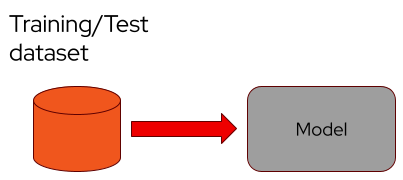
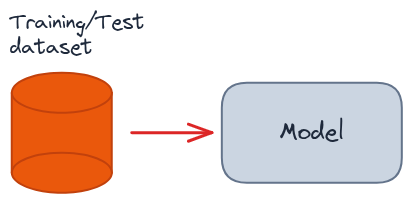
Updated diagrams of the Kafka AI/ML blog post using Excalidraw

diff --git a/content/posts/2025-12-10-ai-ml-streaming-patterns-apache-kafka.md b/content/posts/2025-12-10-ai-ml-streaming-patterns-apache-kafka.md
@@ -100,7 +100,7 @@ Often, the data ingested through the training and test streams are not enough fo
 
 The enrichment process can involve pulling data from external sources in real time using APIs, database queries or solutions like Kafka Connect to write the additional context information into a topic. Frameworks like Kafka Streams and Apache Flink can integrate this additional information into the data stream as it flows through. This enriched data, now with extra features and improved quality, is then used to train the model. The goal is to enhance the model's learning by providing more comprehensive training and test sets. Finally, validation can assess how this enrichment impacts the model's performance.
 
-Data streaming can be also used within an **online learning system** in which a machine-learning model is continuously updated using two Kafka streams. The first stream carries unlabeled data, as a **training set stream**, that flows directly into the model, producing real-time predictions. When the true outcomes for those predictions become available, they arrive through a second Kafka topic, a **feedback stream**, as labeled data. An online-learning algorithm, such as a Passive-Aggressive classifier, then compares the model's earlier predictions with these correct labels and adjusts the model's parameters on the fly. This creates a continuous feedback loop where the model learns incrementally, adapts to changes in the data, and improves its performance with every new piece of labeled information.
+Data streaming can be also used within an **online learning system** in which a machine-learning model is continuously updated using two Kafka streams. The first stream carries unlabeled data, as a **inference stream**, that flows directly into the model, producing real-time predictions. When the true outcomes for those predictions become available, they arrive through a second Kafka topic, a **feedback stream**, as labeled data. An online-learning algorithm, such as a Passive-Aggressive classifier, then compares the model's earlier predictions with these correct labels and adjusts the model's parameters on the fly. This creates a continuous feedback loop where the model learns incrementally, adapts to changes in the data, and improves its performance with every new piece of labeled information.
 
 ![Online Learning System](/images/posts/ai_ml_patterns_08_online_learning_system.png)
 
@@ -125,7 +125,7 @@ The key benefits of using Apache Kafka in a RAG architecture are scalability, de
 By using Kafka to manage data flow, you ensure that the vector database is continuously and efficiently fed with up-to-date embeddings, supporting robust and dynamic retrieval operations within the RAG pattern.
 
 Within the RAG pattern, Kafka Connect can also be used as one of the components in the architecture for feeding the vector database.
-It could be used with a source connector to get data from the source and producing the embeddings or with a sink connector to get data from the topic already storing the new data and generating embeddings to the vector database.
+It could be used with a source connector to pull raw data from external sources, generate embeddings, and write them to a Kafka topic. Alternatively, a sink connector can read pre-computed embeddings from a Kafka topic (where embeddings were generated by other components like Kafka Streams or Flink) and write them to the vector database.
 
 The source and sink connectors could be also used together within the same architecture.
 The source connector pulls raw data from the external source and writes it into a topic. A framework like Kafka Streams and Apache Flink is used to read the raw data from the topic and do some preprocessing and generating embeddings to write into another topic.
